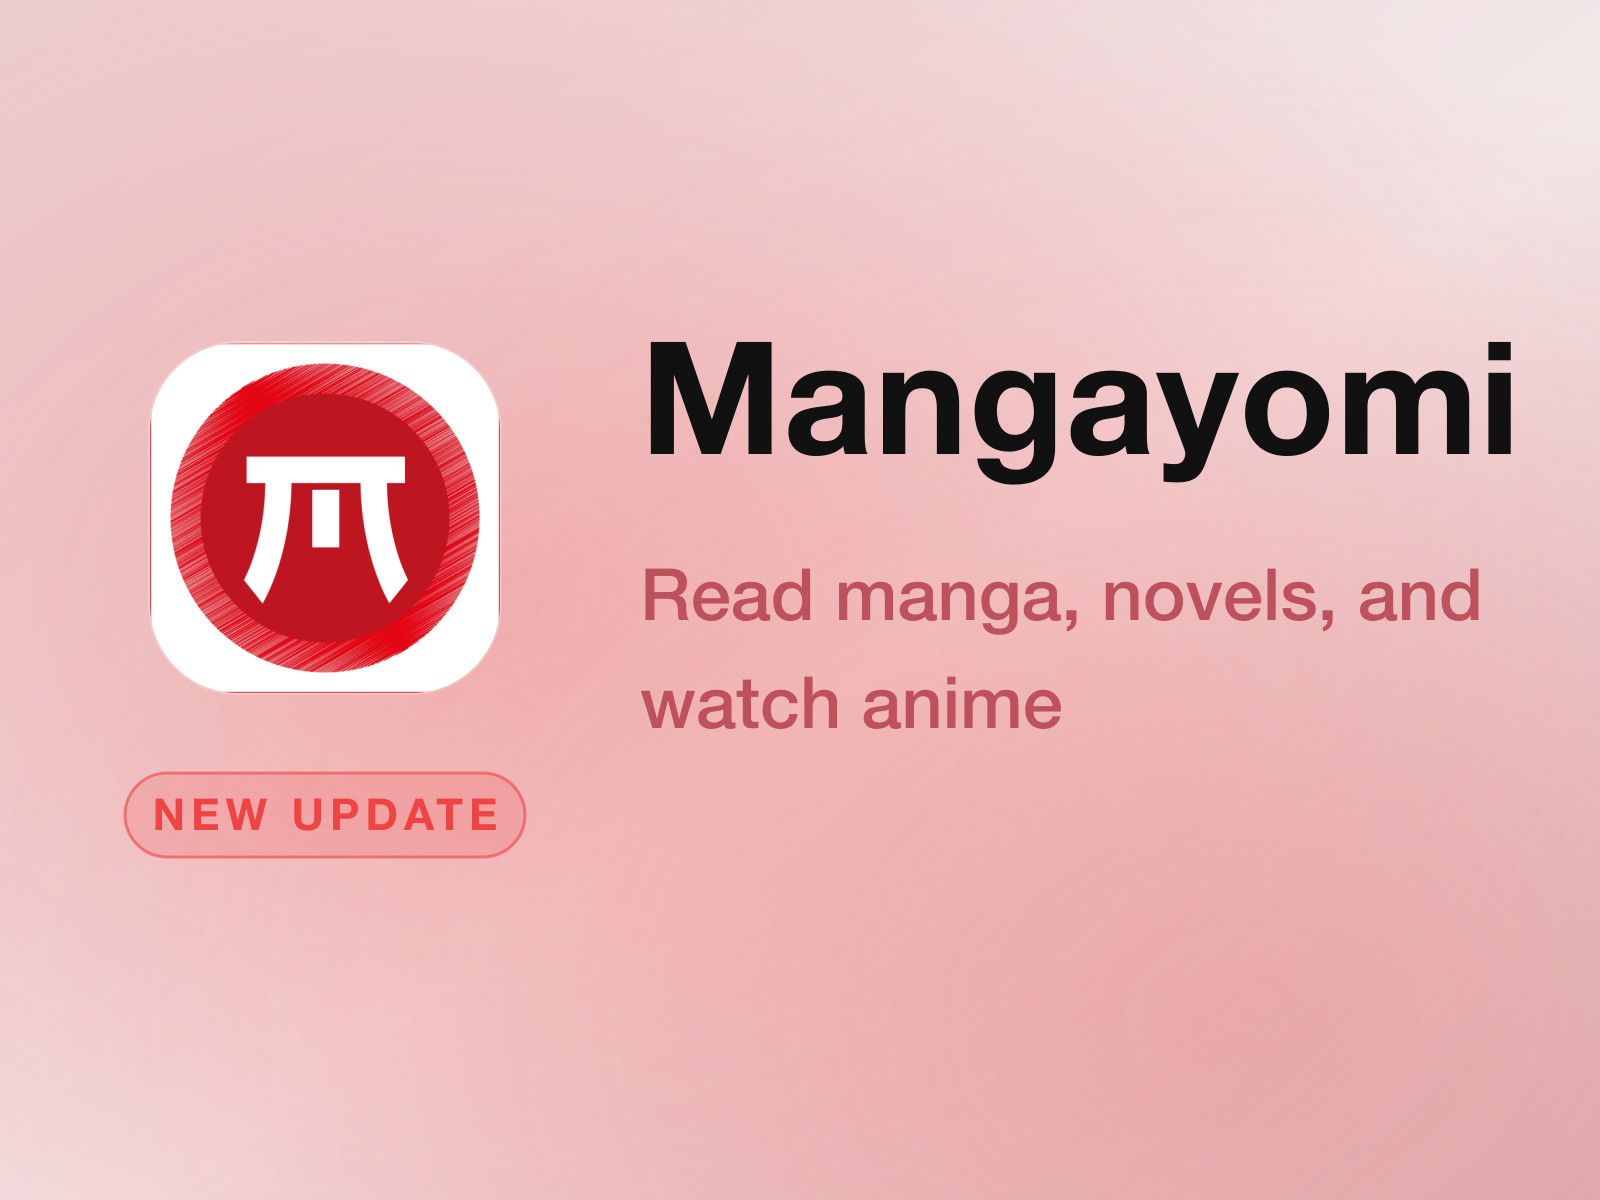
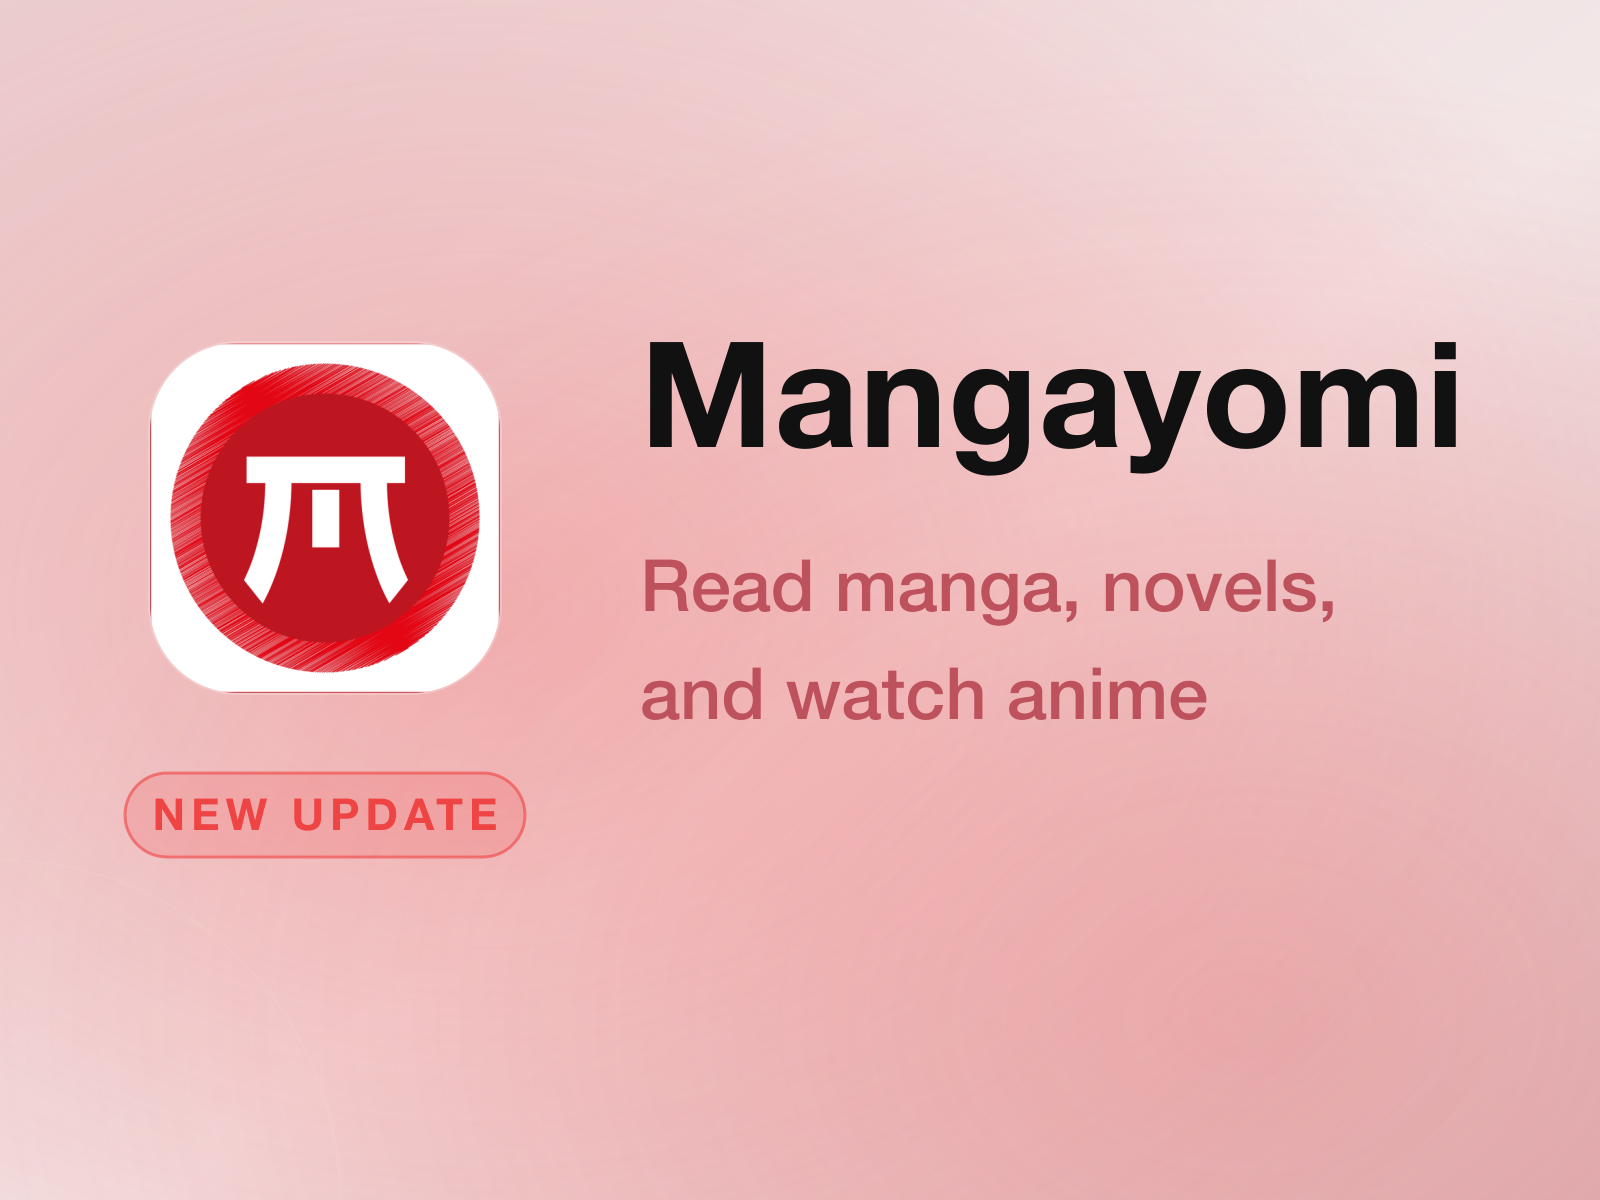
Fix news right margin

Changed region(s): [[0.4062, 0.2775, 0.9688, 0.4008], [0.4062, 0.4625, 0.9375, 0.5242], [0.4062, 0.555, 0.75, 0.6167]]

diff --git a/templates/render_news.py b/templates/render_news.py
@@ -61,17 +61,20 @@ except ModuleNotFoundError:  # pragma: no cover - Python < 3.11
 TEMPLATE = Path(__file__).resolve().parent / "news_update.template.svg"
 WIDTH, HEIGHT = 1600, 1200
 
-# Right column geometry from the template: text starts at x=640 and must
-# stay inside the 1600-wide canvas with ~100px of right margin.
-TEXT_X = 640
-RIGHT_MARGIN = 100
-MAX_TEXT_WIDTH = WIDTH - RIGHT_MARGIN - TEXT_X  # 860
-
-# Left column geometry, shared with the template. The name's cap top aligns
-# with the icon's top edge (y=343), and the description's bottom must stay
-# above the badge's bottom edge (857) — the description font is shrunk to
-# enforce this.
+# Left column geometry, shared with the template. The icon's left edge (x=150)
+# is the layout's side margin; the name's cap top aligns with the icon's top
+# edge (y=343), and the description's bottom must stay above the badge's
+# bottom edge (857) — the description font is shrunk to enforce this.
 ICON_X, ICON_Y, ICON_SIZE = 150, 343, 350
+
+# Right column geometry from the template: text starts at x=640 and must stay
+# inside the 1600-wide canvas with the same side margin as the icon's left
+# edge — so the text's right edge and the icon's left edge sit an equal
+# distance from the image borders. Short text stops earlier and leaves a
+# larger gap, but never a smaller one than the icon's.
+TEXT_X = 640
+RIGHT_MARGIN = ICON_X
+MAX_TEXT_WIDTH = WIDTH - RIGHT_MARGIN - TEXT_X  # 810
 BADGE_X, BADGE_Y, BADGE_W, BADGE_H = 125, 773, 400, 84
 BADGE_BOTTOM = BADGE_Y + BADGE_H  # 857
 GAP_DESC = 40  # gap between the app name and the description
